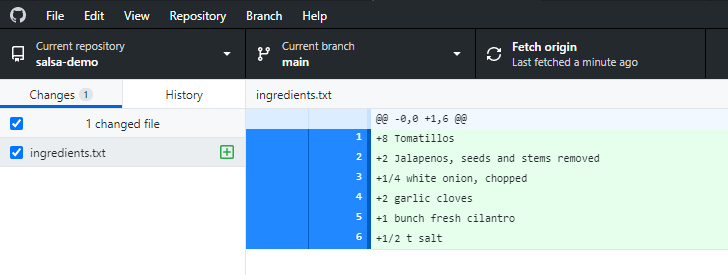
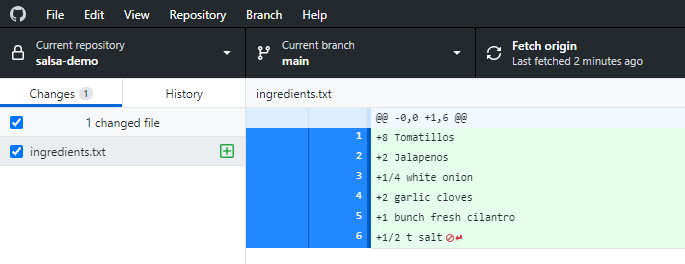
history figs

diff --git a/workshop/exercise-3.md b/workshop/exercise-3.md
@@ -21,10 +21,10 @@ This is the ingredients list for my salsa recipe. The contents of ingredients.tx
 
 ```
 8 Tomatillos
-2 Jalapenos, seeds and stems removed
+2 Jalapenos
 1/4 white onion
-2 garlic cloves, peeled
-1 bunch fresh cilantro, roughly chopped
+2 garlic cloves
+1 bunch fresh cilantro
 1/2 t salt
 ```
 
